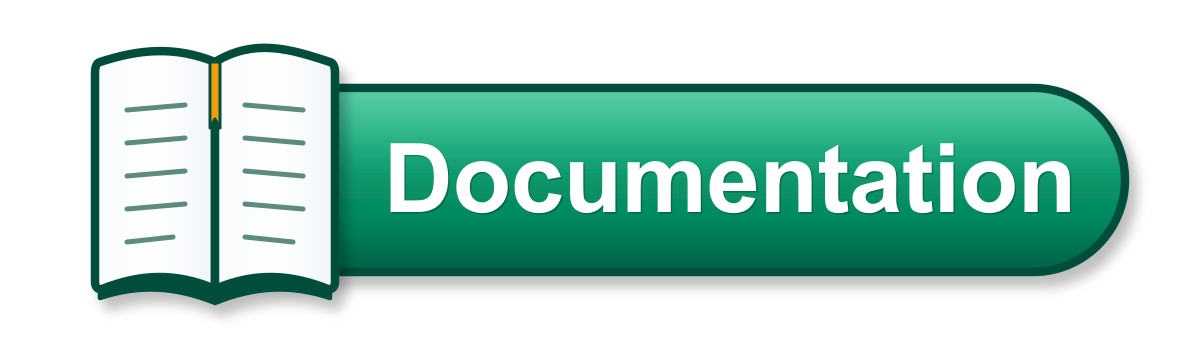
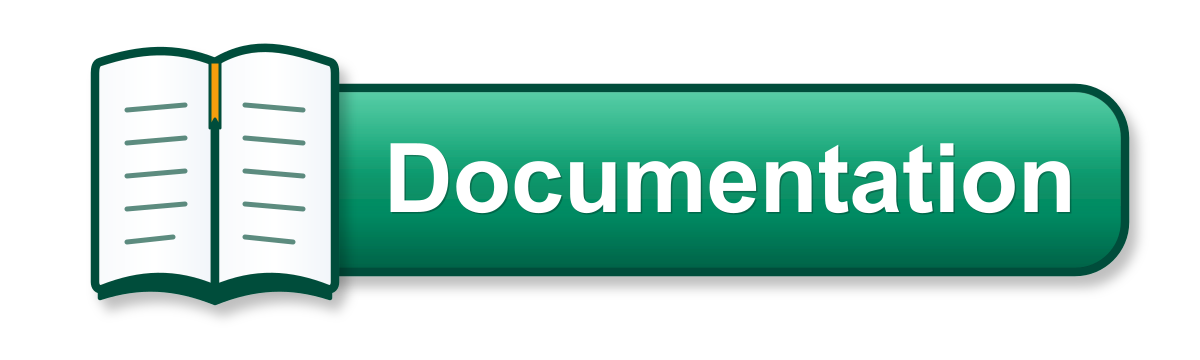
feat(ui): ajuster le rayon des coins arrondis (rx=50) pour correspondre fidèlement à Download

Changed region(s): [[0.8633, 0.55, 0.9558, 0.7944], [0.8633, 0.2139, 0.9558, 0.4583]]

diff --git a/README.md b/README.md
@@ -25,7 +25,7 @@
   <strong>Environnement d'Apprentissage de la Programmation
   <br>pour l'Enseignement Secondaire et Supérieur</strong>
   <br>
-  <br>Site officiel : <a href="https://codelab.univ-lemans.fr">https://codelab.univ-lemans.fr</a> &nbsp;|&nbsp; 📖 <a href="https://jlehuen.github.io/CodeLab/doc-fr/">Documentation</a>
+  <br>Site officiel : <a href="https://codelab.univ-lemans.fr">https://codelab.univ-lemans.fr</a>
   <br><br>
   <a href="#téléchargements"><img src="client/images/download.png" alt="Téléchargements" width="160" height="60"></a>
   &emsp;

diff --git a/README.en.md b/README.en.md
@@ -25,7 +25,7 @@
   <strong>Programming Learning Environment
   <br>for Secondary and Higher Education</strong>
   <br>
-  <br>Official website: <a href="https://codelab.univ-lemans.fr">https://codelab.univ-lemans.fr</a> &nbsp;|&nbsp; 📖 <a href="https://jlehuen.github.io/CodeLab/doc-en/">Documentation</a>
+  <br>Official website: <a href="https://codelab.univ-lemans.fr">https://codelab.univ-lemans.fr</a>
   <br><br>
   <a href="#downloads"><img src="client/images/download.png" alt="Downloads" width="160" height="60"></a>
   &emsp;
